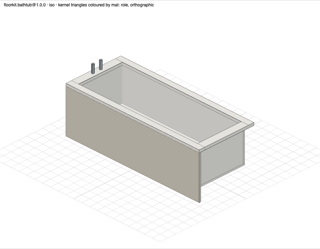
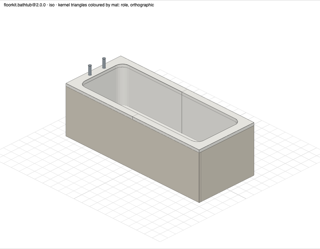
docs: format v2 counts, true AI-assistance wording and the 2.0.0 bathtub picture (FLO-280, FLO-281)
- CHANGELOG and README: 80 blocks, 11 of them also in a 2.0.0 on format v2,
  so index.json has 91 entries (counted from index.json); a README line on
  the two formats and the loader's maxFormat.
- The AI-assistance line now says what the history shows: 24 of the first 25
  commits carry an AI co-author trailer; the commits of 2026-10-31 carry
  none, by the owner's rule for that run, and are AI-assisted too.
- LAUNCH: the check and loader lines measured on 2026-10-31 (91 valid;
  the loader verifies 80 blocks by default and 91 entries with maxFormat 2).
- docs/images/bathtub.png is the bathtub 2.0.0 iso.

diff --git a/CHANGELOG.md b/CHANGELOG.md
@@ -16,7 +16,7 @@ The first release, tagged at the public launch ([docs/LAUNCH.md](docs/LAUNCH.md)
 
 #### 80 blocks
 
-Every block is `blocks/floorkit/<slug>/1.0.0.op`, published by `floorkit` (tier `official`), licensed CC BY 4.0 with `catalog:attribution` "Vishwajeet Mane", and drawn by hand to LOD 300 (`catalog:lod` `"300"`) to the [drafting standard](docs/drafting-standard.md). Per category, counted from `index.json`:
+Every block has a `blocks/floorkit/<slug>/1.0.0.op`, published by `floorkit` (tier `official`), licensed CC BY 4.0 with `catalog:attribution` "Vishwajeet Mane", and drawn by hand to LOD 300 (`catalog:lod` `"300"`) to the [drafting standard](docs/drafting-standard.md). Per category, counted from `index.json`:
 
 | Category | Blocks | Slugs |
 | --- | --- | --- |
@@ -35,6 +35,8 @@ Every block is `blocks/floorkit/<slug>/1.0.0.op`, published by `floorkit` (tier 
 | `other` | 3 | `turning-circle-1500`, `wheelchair`, `wheelchair-space` |
 | | **80** | |
 
+- **Format v2 versions.** 11 of the 80 blocks also have a `2.0.0.op` drawn on [format v2](docs/format-v2.md), beside their unchanged `1.0.0.op`, so `index.json` has 91 entries: `basin-accessible`, `bathtub`, `bidet`, `cloakroom-basin`, `shower-level-access`, `shower-tray`, `urinal`, `wash-basin`, `wc`, `wc-accessible` and `wc-wall-hung`.
+
 - **Where they come from.** The catalog was seeded by importing the 26 files of the Floorkit SDK's example catalog. Before this tag, 23 of them were redrawn in place at `1.0.0` to the drafting standard, and three were deleted:
   - `rectangular-bathtub`: `bathtub` absorbs it, and keeps its drain and tap anchors;
   - `wc-and-basin`: a bundle of two fixtures, replaced by the separate WCs and basins;
@@ -50,7 +52,7 @@ Every block is `blocks/floorkit/<slug>/1.0.0.op`, published by `floorkit` (tier 
   - `wc-accessible`: the pan is a D of two straight sweeps, with no crevices; a D seat with a hinge bar replaces the full-width seat back, and the lid pad is gone.
 - **`catalog:basedOn`** names the standard, data sheet or reference a block's dimensions come from, and says "unverified" where a size was not checked against a published source.
 - **Ports and IFC.** 31 blocks have ports. Each of them also sets the legacy `ifcClass`, equal to `ifc:class`, because Floorkit's distribution export reads only that key ([format §11](docs/format-v1.md#11-advisory-notes)).
-- **AI assistance.** Every commit that drew or redrew blocks for this release is co-authored by an AI assistant (Claude), as its `Co-Authored-By:` trailer says, and was reviewed against the standard. Whether such content is protected by copyright is unsettled. This is not legal advice.
+- **AI assistance.** The blocks, tools and documents of this release were drafted with an AI assistant (Claude) and reviewed against the standard. The commits up to 2026-10-27 say so in a `Co-Authored-By:` trailer: 24 of the first 25 (the one without is a merge). The commits of 2026-10-31 (FLO-277, FLO-278, FLO-279, FLO-280, FLO-281, FLO-328) carry no trailer, by the owner's rule for that run, and are AI-assisted too; each pull request says which parts the AI drafted. Whether such content is protected by copyright is unsettled. This is not legal advice.
 - **Redrawn on format v2 (FLO-280).** `wc`, `wc-wall-hung`, `cloakroom-basin` and `basin-accessible` have a `2.0.0.op` beside their `1.0.0.op`, which stays unchanged:
   - the WC pans are oval outline sweeps, hollowed by a `shell` 0.015 thick whose top is opened by a round cylinder cut; the floor-standing WC stands on an oval pedestal that follows the pan, and each seat is two half rings that meet on the centre line;
   - the basin rims are D-shaped outline sweeps, drawn as two half rims, over a bowl that is a `revolve` of an outline with its 0.012 wall in chords, the waste hole the gap at its axis, filled by a metal waste;
@@ -82,9 +84,9 @@ Every block is `blocks/floorkit/<slug>/1.0.0.op`, published by `floorkit` (tier 
 - **The geometry gates** (`tools/lib/geometry.mjs`, `tools/lib/note.mjs`, `tools/lib/roles.mjs`) hold every block to the drafting standard from its JSON alone, so CI runs them ([format §9](docs/format-v1.md#9-limits-and-why)): dimensions equal to the body's extent; nothing below the floor unless the note says `recess`; the plan under the body; every solid connected to a ground; at LOD 300, at least 3 solids filling under 95 % of their bounding box; anchors and ports on the body; note heights on exposed faces; a `mat:` role for every model node; full cylinders only; `catalog:lod` `300` for a `floorkit` block; anchor names and roles, and port ids, from the standard's tables; and `ifc:class` on every block.
 - **`schema/index/v1.schema.json`**: the generated index, `"schema": "floorkit.catalog/v1"`.
 - **[docs/format-v1.md](docs/format-v1.md)**: the format reference, with the Floorkit facts at OpenPlans `main` `b0a084c7` (package 1.2.0).
-- **Format v2** ([docs/format-v2.md](docs/format-v2.md), [RFC 0004](docs/rfcs/0004-format-v2.md)): the Floorkit 3.0 node kinds `sphere`, `cone`, `torus`, `revolve`, `shell` (in `definitions`), the cylinder sector (`angle`, `startAngle`) and the outline sweep, with Floorkit's field names and limits. A block opts in with root metadata `"catalog:format": "2"`; without it a block is format 1, and in format 1 the key may only be `"1"`. The root `version` stays `1`. Four blocks use it: the 2.0.0 versions of `wc`, `wc-wall-hung`, `cloakroom-basin` and `basin-accessible` (FLO-280).
+- **Format v2** ([docs/format-v2.md](docs/format-v2.md), [RFC 0004](docs/rfcs/0004-format-v2.md)): the Floorkit 3.0 node kinds `sphere`, `cone`, `torus`, `revolve`, `shell` (in `definitions`), the cylinder sector (`angle`, `startAngle`) and the outline sweep, with Floorkit's field names and limits. A block opts in with root metadata `"catalog:format": "2"`; without it a block is format 1, and in format 1 the key may only be `"1"`. The root `version` stays `1`. Eleven blocks use it, each in a 2.0.0 version: `basin-accessible`, `bathtub`, `bidet`, `cloakroom-basin`, `shower-level-access`, `shower-tray`, `urinal`, `wash-basin`, `wc`, `wc-accessible` and `wc-wall-hung` (FLO-280, FLO-281).
 - **`schema/op/v2.schema.json`** beside v1, as strict and closed. `tools/lib/op.mjs` picks the schema per block and adds the format v2 gates: outlines (arc centres, repeated points, area, crossing), the torus radii, a revolve outline clear of its axis by 0.001 m, an outline sweep straight up, one scale factor per body, and no shell of a revolve or a cylinder sector, also through a boolean or another shell. `tools/lib/geometry.mjs` and `tools/lib/outline.mjs` bound the new kinds for the geometry gates. The format 1 refusal of partial cylinders and of sweeps in booleans stays.
-- **Each index entry has `format`** (1 or 2), required by `schema/index/v1.schema.json`, which keeps the name `floorkit.catalog/v1` ([RFC 0004](docs/rfcs/0004-format-v2.md#the-index)). All 80 entries are format 1.
+- **Each index entry has `format`** (1 or 2), required by `schema/index/v1.schema.json`, which keeps the name `floorkit.catalog/v1` ([RFC 0004](docs/rfcs/0004-format-v2.md#the-index)). Of the 91 entries, 80 are format 1 and 11 are format 2.
 
 #### Catalog files
 
@@ -93,7 +95,7 @@ Every block is `blocks/floorkit/<slug>/1.0.0.op`, published by `floorkit` (tier 
 | `publishers.json` | One publisher: `floorkit` (Floorkit), tier `official` |
 | `categories.json` | 13 categories, the same list Parti uses; must equal the schema's `catalog:category` enum |
 | `revocations.json` | Empty |
-| `index.json` | Generated: 80 entries. Each entry has the file's `sha256` (raw bytes) and a `contentHash` (SHA-256 of the canonical JSON, keys sorted, no whitespace) |
+| `index.json` | Generated: 91 entries, for 80 blocks. Each entry has the file's `sha256` (raw bytes) and a `contentHash` (SHA-256 of the canonical JSON, keys sorted, no whitespace) |
 
 `contentHash` uses the same algorithm as Parti's `hash.ts`. Measured when the seeds were imported: it reproduced Parti's recorded hash for 26 of 26 of Parti's system blocks.
 

diff --git a/docs/LAUNCH.md b/docs/LAUNCH.md
@@ -19,7 +19,7 @@ Run these on an up-to-date `main`. N is the number of entries in `index.json`: `
 
 | Check | Command | Expect |
 | --- | --- | --- |
-| Tests, blocks and index | `npm ci && npm run check` | `N block(s) valid.` and `index.json is current: N entr(ies).`, with no failing test. On branch `catalog-1.0` on 2026-10-27 these read `80 block(s) valid.` and `index.json is current: 80 entr(ies).` |
+| Tests, blocks and index | `npm ci && npm run check` | `N block(s) valid.` and `index.json is current: N entr(ies).`, with no failing test. On commit `d8161de` (branch `catalog-1.0` at `cfe150e` plus documentation) on 2026-10-31 these read `91 block(s) valid.` and `index.json is current: 91 entr(ies).`, with 69 tests, 62 passing and 7 skipped without `FLOORKIT_DIR` |
 | Licensing metadata | `reuse lint` | `Congratulations! Your project is compliant with version 3.3 of the REUSE Specification :-)` |
 | Immutability gate, before any tag | `node tools/immutable.mjs` | `immutability: NOT ENFORCED — no v* tag yet, so no block has been released.` |
 | Floorkit parity (maintainers with a Floorkit build) | `FLOORKIT_DIR=<dir with dist/index.js> node tools/parity.mjs --build --mesh` | Accepted, unrepaired, built, mirrored and mesh clean, N/N each; kernel-reject fixtures refused 27/27 (the 12 `v2-*.json` need Floorkit 3.0); `parity holds.` |
@@ -152,7 +152,7 @@ What each step proves:
 - **Step 3 also checks redirects.** In Node, the loader refuses any redirect with `CatalogError` code `redirected`, so a pass also shows that jsDelivr answers without one.
 - **A failure in step 3 usually names the file and the reason.** Check the `CatalogError` code: `integrity`, `too-large`, `redirected` or `fetch-failed`.
 
-**Measured so far:** the step 3 command was run against a local HTTP server (`python3 -m http.server`) serving this repository on branch `catalog-1.0` on 2026-10-27, and printed `verified 80 blocks from http://127.0.0.1:8765/`. It has **not** been run against jsDelivr: `cdn.jsdelivr.net` was unreachable from where this file was written. Step 4's expected `access-control-allow-origin: *` is also unverified.
+**Measured so far:** the step 3 command was run against a local HTTP server (`python3 -m http.server`) serving this repository at commit `d8161de` on 2026-10-31, and printed `verified 80 blocks from http://127.0.0.1:8765/`: with the loader's default `maxFormat` 1 it reads the 80 format 1 entries. The same loop with `openCatalog({ baseUrl, maxFormat: 2 })`, loading each entry by its version, printed `verified 91 entries from http://127.0.0.1:8765/`. It has **not** been run against jsDelivr: `cdn.jsdelivr.net` was unreachable from where this file was written. Step 4's expected `access-control-allow-origin: *` is also unverified.
 
 ### 7. Point Parti's credit and `basedOn` at this repository
 

diff --git a/README.md b/README.md
@@ -2,7 +2,8 @@
 
 Free, reusable building blocks for [Floorkit](https://ploterr.com/floorkit): furniture, beds, kitchen units, sanitaryware, appliances, lighting, doors, planting, vehicles and data-centre equipment. Each block is one plain JSON `.op` file with a plan symbol, a 3D body and named anchors.
 
-- **80 blocks in 13 categories**, listed in [`index.json`](index.json). Each is drawn to LOD 300 to the [drafting standard](docs/drafting-standard.md).
+- **80 blocks in 13 categories**, listed in [`index.json`](index.json). Each is drawn to LOD 300 to the [drafting standard](docs/drafting-standard.md). 11 of them also have a version 2.0.0, so the index has 91 entries.
+- **Two formats.** Every block has a version in format 1. The 2.0.0 versions use [format v2](docs/format-v2.md), the curved node kinds of Floorkit 3.0 (arcs, revolves, cones, sectors). The reference loader skips them unless asked with `maxFormat: 2`.
 - **A released block never changes.** A fix is a new version in a new file, so a URL pinned to a tag always serves the same bytes.
 - **Stricter than Floorkit.** The catalog refuses anything Floorkit would silently repair, so a block draws exactly as written.
 - **Blocks are CC BY 4.0; the tools are Apache-2.0.** See [Licence](#licence).
